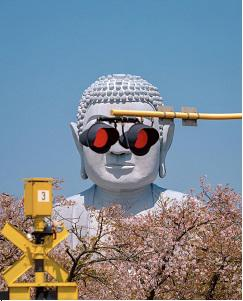
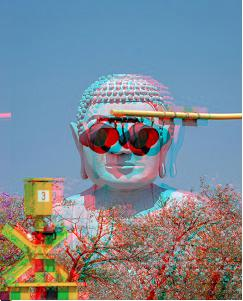
got it working

diff --git a/gitpic/gitpic.py b/gitpic/gitpic.py
@@ -1,5 +1,6 @@
 from PIL import Image, ImageColor
 from tqdm import tqdm
+from random import random
 
 class Gitpic:
     def __init__(self, **kwargs):
@@ -9,18 +10,17 @@ class Gitpic:
         self.new_img = Image.new('RGB',(self.width + 1,self.height + 1),(255,255,255))
         self.percent = 0
 
-        self.offset = 5e-02
+        self.offset = int((random() * .05 * self.width))
 
     def generate_image(self):
-        print(self.img)
         for w in tqdm(range(self.width)):
             for h in range(self.height):
                 if(w<self.offset):
-                    self.new_img.putpixel((w+1,h+1),(self.img.getpixel((w,h))[0],self.img.getpixel((w,h))[1],self.img.getpixel((w,h))[2]))
-                if(w<self.offset):
-                    self.new_img.putpixel((w,h),(self.img.getpixel((w,h))[0],self.img.getpixel((w,h))[1],self.img.getpixel((w,h))[2]))
+                    self.new_img.putpixel((w+1,h+1),(self.img.getpixel((w,h))[0],self.img.getpixel((w,h))[1],self.img.getpixel((w+self.offset,h))[2]))
+                if(w>self.offset):
+                    self.new_img.putpixel((w,h),(self.img.getpixel((w-self.offset,h))[0],self.img.getpixel((w,h))[1],self.img.getpixel((w,h))[2]))
                 else:
-                    self.new_img.putpixel((w,h),(self.img.getpixel((w,h))[0],self.img.getpixel((w,h))[1],self.img.getpixel((w,h))[2]))
+                    self.new_img.putpixel((w,h),(self.img.getpixel((w-self.offset,h))[0],self.img.getpixel((w,h))[1],self.img.getpixel((w+self.offset,h))[2]))
 
         path = self.path.replace(".jpg", "") #change to be any file format
         self.new_img.save(f"{path}_glitched.jpg")
